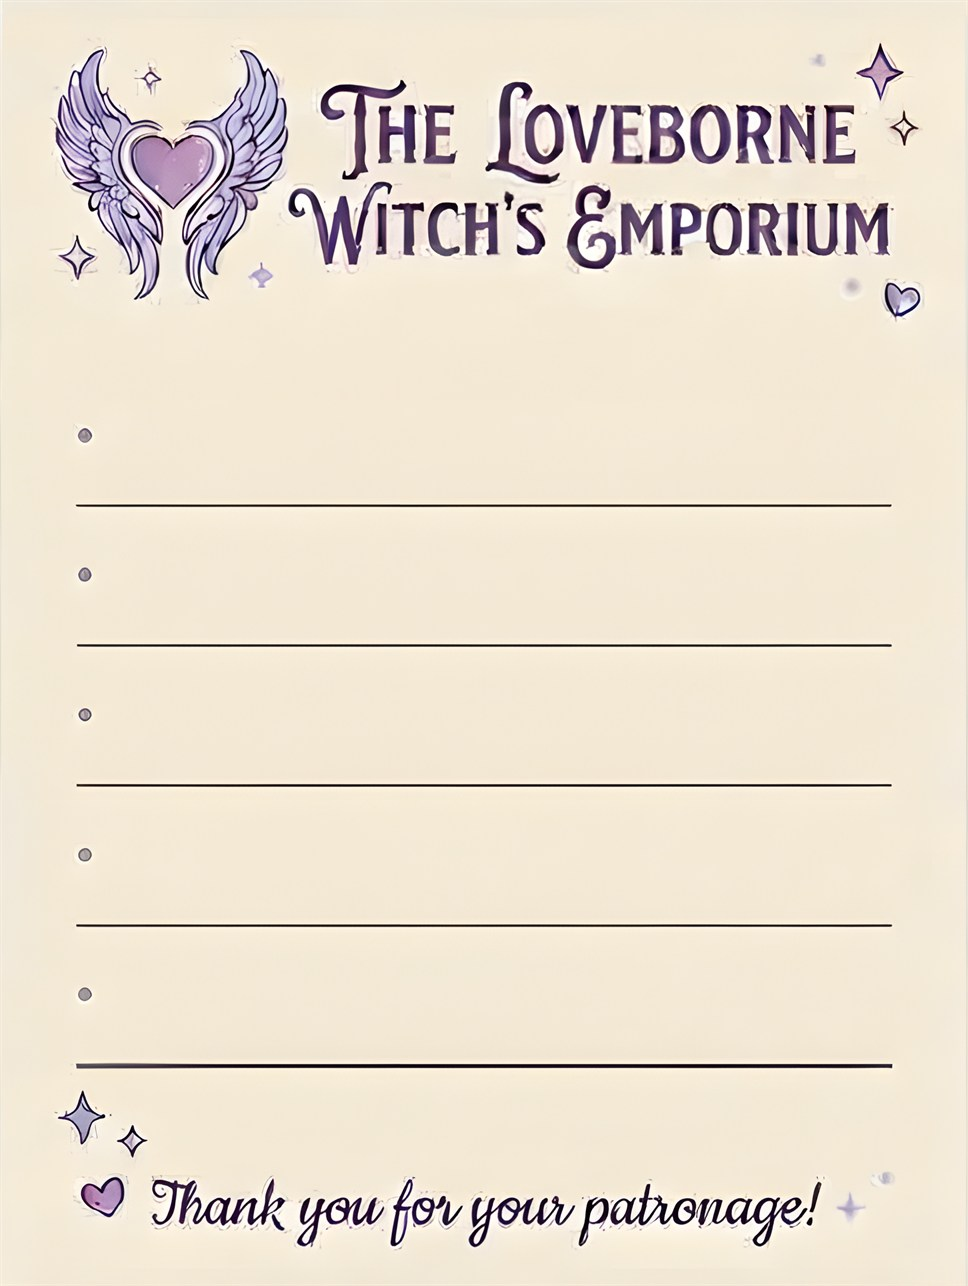
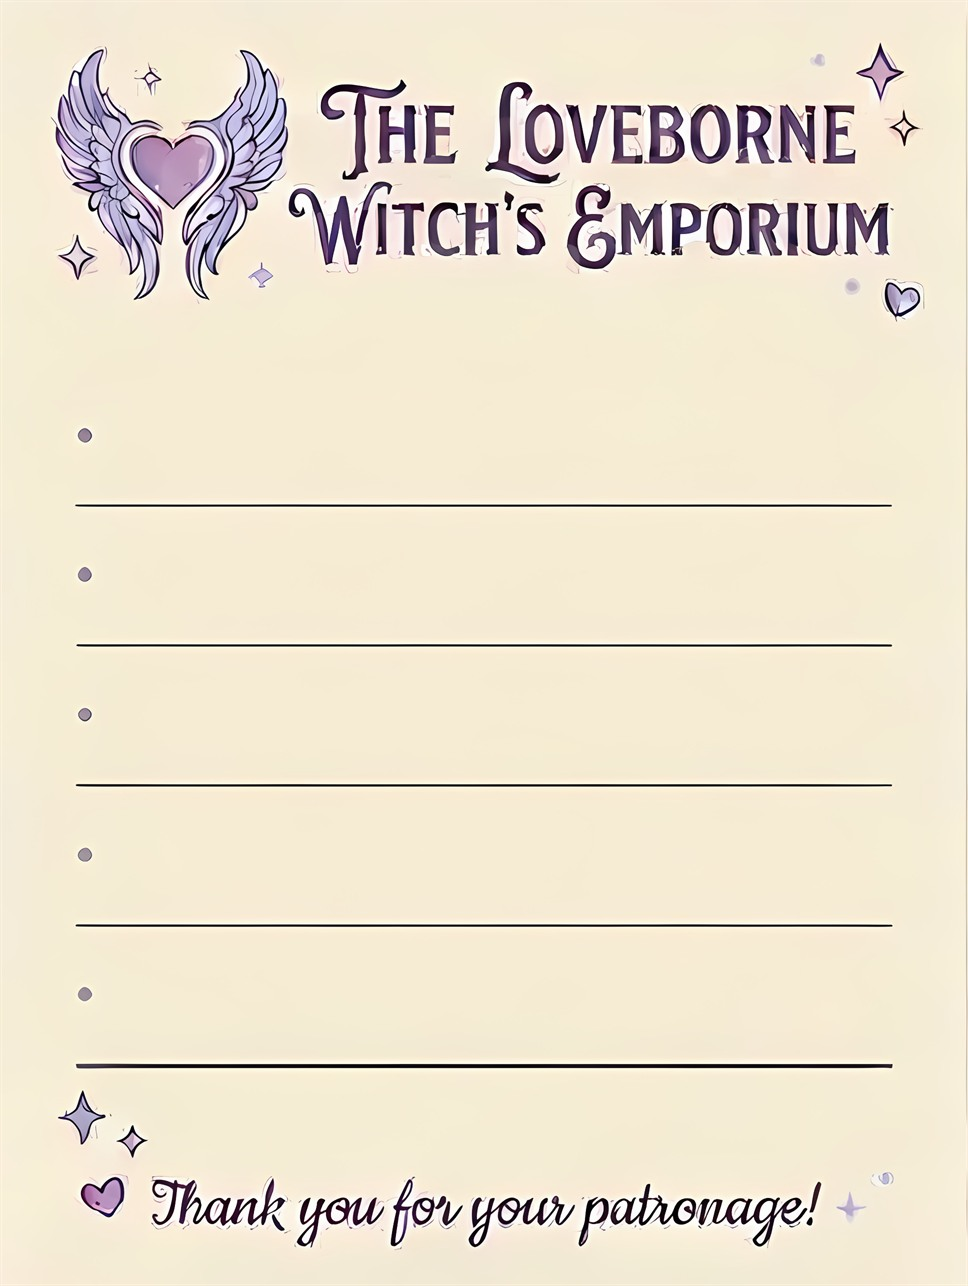
Workroom walls repeat outward instead of folding into a corner; bigger cupboard popup; crisper, larger receipt

diff --git a/css/style.css b/css/style.css
@@ -240,12 +240,12 @@ summary{cursor:pointer;font-weight:600;padding:3px 0}
 .modal.receiptsview{background:none;align-items:center;cursor:pointer}
 .receiptsview .receipts{justify-content:center;gap:18px;margin:0}
 /* a receipt: the shop's slip, printed on its five ruled lines (the first at 39.2% down, one every 10.9%), beside the bullets */
-.receipt{position:relative;width:280px;aspect-ratio:484/643;background:#FBF4E2 center/100% 100% no-repeat;border-radius:2px;
+.receipt{position:relative;width:330px;aspect-ratio:484/643;background:#FBF4E2 center/100% 100% no-repeat;border-radius:2px;
   box-shadow:0 4px 12px rgba(40,10,40,.35);font-family:'Courier Prime','Courier New',monospace;color:#3D2A5C}  /* printed by the till */
-.receipt .ln{position:absolute;left:12%;right:8%;bottom:calc(100% - 38.2% - var(--r) * 10.89%);font-size:13.5px;line-height:1;white-space:nowrap;overflow:hidden;text-overflow:ellipsis}
-.receipt .who{font-size:12.5px}
-.receipt .rs{color:#C2456B;font-family:var(--font-text);font-size:16px;letter-spacing:2px}
-.receipt .when{text-align:right;font-size:12.5px}
+.receipt .ln{position:absolute;left:12%;right:8%;bottom:calc(100% - 38.2% - var(--r) * 10.89%);font-size:15.5px;line-height:1;white-space:nowrap;overflow:hidden;text-overflow:ellipsis}
+.receipt .who{font-size:14px}
+.receipt .rs{color:#C2456B;font-family:var(--font-text);font-size:19px;letter-spacing:2px}
+.receipt .when{text-align:right;font-size:14px}
 .autobar{position:fixed;left:50%;bottom:calc(env(safe-area-inset-bottom,0px) + 60px);transform:translateX(-50%);background:var(--card);border:1px solid var(--line);border-radius:12px;padding:6px 10px;z-index:25;box-shadow:var(--glow);white-space:nowrap}
 .autobar[hidden]{display:none}
 .cue{font-style:italic;color:var(--ink-soft);margin:8px 0 0;font-size:14px}
@@ -343,8 +343,8 @@ button.small{font-size:12px;padding:2px 10px}
 .cabinside .chip:disabled{opacity:.35}
 /* Ingredients with a picture stand on the shelf with a little name tag; the stock count sits on the tag. */
 /* ingredients stand at their own sizes (--h, a share of a big bottle; see ITEM_SIZE in config.js), feet on one line */
-.cabinside .chip.jar{display:inline-flex;flex-direction:column;align-items:center;justify-content:flex-end;gap:3px;width:auto;min-width:96px;padding:6px 3px 4px;background:none;border:1px solid transparent;border-radius:10px;box-shadow:none;color:#FBEFD9;font-size:12px;line-height:1.15;text-align:center}
-.cabinside .chip.jar img{width:auto;height:calc(var(--h,.7) * 160px);max-width:150px;object-fit:contain;filter:drop-shadow(0 3px 2px rgba(0,0,0,.55));transition:transform .15s}
+.cabinside .chip.jar{display:inline-flex;flex-direction:column;align-items:center;justify-content:flex-end;gap:3px;width:auto;min-width:124px;padding:6px 3px 4px;background:none;border:1px solid transparent;border-radius:10px;box-shadow:none;color:#FBEFD9;font-size:14.5px;line-height:1.15;text-align:center}
+.cabinside .chip.jar img{width:auto;height:calc(var(--h,.7) * 205px);max-width:190px;object-fit:contain;filter:drop-shadow(0 3px 2px rgba(0,0,0,.55));transition:transform .15s}
 .cabinside .chip.jar:hover{background:rgba(255,240,220,.08);box-shadow:none}
 .cabinside .chip.jar:hover img{transform:translateY(-3px) scale(1.06)}
 .cabinside .chip.jar .nm{background:#F6E7C9;color:#4A2A1C;border-radius:3px;padding:1px 5px;max-width:100%}
@@ -354,9 +354,9 @@ button.small{font-size:12px;padding:2px 10px}
    A shelf row is 242px: 14px of space, 180px for the bottles, the plank, then the tag. Tiles are a fixed height so the planks line up. */
 .cabinside .chips.shelf{gap:12px 0;align-items:flex-start;justify-content:flex-start;padding:14px 8px 4px;
   background:repeating-linear-gradient(to bottom,transparent 0 191px,#8C5E46 191px 200px,rgba(0,0,0,.5) 200px 205px,transparent 205px 242px),#3B261C}
-.cabinside .chip.jar.vessel{width:118px;height:230px;justify-content:flex-start;padding:0 2px 4px;border-radius:0}
-.cabinside .chip.jar.vessel .pic{display:flex;align-items:flex-end;justify-content:center;width:100%;height:180px;flex:none;margin-bottom:22px}
-.cabinside .chip.jar.vessel img{width:auto;height:calc(var(--h,.9) * 175px);max-width:116px;object-fit:contain;filter:drop-shadow(-6px 4px 4px rgba(0,0,0,.45))}
+.cabinside .chip.jar.vessel{width:150px;height:290px;justify-content:flex-start;padding:0 2px 4px;border-radius:0}
+.cabinside .chip.jar.vessel .pic{display:flex;align-items:flex-end;justify-content:center;width:100%;height:228px;flex:none;margin-bottom:26px}
+.cabinside .chip.jar.vessel img{width:auto;height:calc(var(--h,.9) * 222px);max-width:148px;object-fit:contain;filter:drop-shadow(-6px 4px 4px rgba(0,0,0,.45))}
 .cabinside .chip.jar.vessel:hover img{transform:translateY(-4px)}
 .cabinside .chip.jar.vessel.on{border-radius:8px 8px 0 0}
 
@@ -454,8 +454,8 @@ button.small{font-size:12px;padding:2px 10px}
 .pbody .entry .entrypic.card{max-height:22em;border-radius:.6em;filter:drop-shadow(0 6px 10px rgba(60,30,40,.3))}
 /* Tarot cards in the Cabinet: little cards with their name under them; the altar's card slot shows a thumbnail. */
 /* tarot cards are read by their pictures, so they come out big (sized with the room: about 140px wide on a 1920 screen) */
-.cabinside .chip.card{display:inline-flex;flex-direction:column;align-items:center;gap:3px;width:auto;padding:5px;background:none;border:1px solid transparent;border-radius:8px;box-shadow:none;color:#FBEFD9;font-size:11px;line-height:1.15;text-align:center}
-.cabinside .chip.card img{width:max(100px,7.3cqw);height:auto;border-radius:6px;box-shadow:0 3px 6px rgba(0,0,0,.5);transition:transform .15s}
+.cabinside .chip.card{display:inline-flex;flex-direction:column;align-items:center;gap:3px;width:auto;padding:5px;background:none;border:1px solid transparent;border-radius:8px;box-shadow:none;color:#FBEFD9;font-size:13px;line-height:1.15;text-align:center}
+.cabinside .chip.card img{width:max(130px,9.4cqw);height:auto;border-radius:6px;box-shadow:0 3px 6px rgba(0,0,0,.5);transition:transform .15s}
 .cabinside .chip.card:hover{background:rgba(255,240,220,.08);box-shadow:none}
 .cabinside .chip.card:hover img{transform:translateY(-4px) scale(1.08)}
 .cabinside .chip.card .nm{background:#F6E7C9;color:#4A2A1C;border-radius:3px;padding:1px 4px;max-width:100%}
@@ -508,12 +508,11 @@ button.small{font-size:12px;padding:2px 10px}
 .room{position:absolute;left:50%;bottom:0;translate:-50% 0;
   height:max(100vh,min(calc(100vw * 768 / 1376),106vh));width:max(calc(100vh * 1376 / 768),min(100vw,calc(106vh * 1376 / 768)));
   background-size:100% 100%;background-color:#2a1d2a;container-type:size}
-/* On a window wider than the picture, the walls carry on past its edges: each side shows the edge of the same room drawn empty
-   (assets/scene/altar-room-sides.jpg: walls and floor, no cupboards or table), mirrored at the seam and fading into the dark. */
-.room::before,.room::after{content:'';position:absolute;top:0;bottom:0;width:45%;scale:-1 1;pointer-events:none;
-  background-size:100% 100%,222.2% 100%;background-repeat:no-repeat}
-.room::before{right:100%;background-image:linear-gradient(to right,rgba(30,18,25,0) 0%,rgba(30,18,25,.35) 50%,rgba(30,18,25,.85) 100%),var(--room-sides);background-position:left top,left top}
-.room::after{left:100%;background-image:linear-gradient(to left,rgba(30,18,25,0) 0%,rgba(30,18,25,.35) 50%,rgba(30,18,25,.85) 100%),var(--room-sides);background-position:right top,right top}
+/* On a window wider than the picture, the walls carry on past its edges: one wall section (a panel and a pillar) from each edge
+   of the same room drawn empty repeats outward, the right way round, fading into the dark. 7.27% = the section's 200px of 2752. */
+.room::before,.room::after{content:'';position:absolute;top:0;bottom:0;width:45%;pointer-events:none;background-repeat:no-repeat,repeat-x;background-size:100% 100%,16.15% 100%}
+.room::before{right:100%;background-image:linear-gradient(to left,rgba(30,18,25,0) 0%,rgba(30,18,25,.35) 50%,rgba(30,18,25,.85) 100%),var(--wall-l);background-position:0 0,right top}
+.room::after{left:100%;background-image:linear-gradient(to right,rgba(30,18,25,0) 0%,rgba(30,18,25,.35) 50%,rgba(30,18,25,.85) 100%),var(--wall-r);background-position:0 0,left top}
 @media (max-aspect-ratio:3/2){.room{bottom:auto;top:50%;translate:-50% -50%;width:100vw;height:calc(100vw * 768 / 1376)}}  /* narrow windows: the whole room, letterboxed */
 .altarview{background:#1E1219}
 .altartop{position:absolute;top:0;left:0;right:0;z-index:3;display:flex;justify-content:center;padding:76px 16px 0;pointer-events:none}
@@ -570,12 +569,13 @@ button.small{font-size:12px;padding:2px 10px}
   border:1px solid rgba(255,255,255,.35);box-shadow:inset 0 .45cqw 0 -.15cqw #9C6B4E}
 
 /* the open cupboard: everything inside it, between the cabinets; it comes out of the door that opened */
-.shelfopen{position:absolute;top:13%;max-height:56%;left:35%;width:30%;z-index:4;display:flex;flex-direction:column;box-sizing:border-box;padding:10px;
+.shelfopen{position:absolute;top:max(13%,calc(100% - 100vh + 118px));max-height:63%;  /* below the order note, even when the ceiling is cropped */
+  left:29%;width:42%;z-index:4;display:flex;flex-direction:column;box-sizing:border-box;padding:10px;
   background:#2B1A13;border:2px solid #6B4A35;border-radius:12px;box-shadow:0 18px 40px rgba(0,0,0,.6),0 0 0 1px rgba(244,173,207,.3);
   animation:cupboardOut .32s .12s cubic-bezier(.2,.8,.3,1.1) backwards}
 .shelfopen[hidden]{display:none}
 /* the tarot cupboard opens wider, so its big cards fit five or six to a row */
-.shelfopen.wide{left:20%;width:60%;max-height:62%}
+.shelfopen.wide{left:14%;width:72%;max-height:66%}
 .shelfopen.fromL{transform-origin:0 30%;--from:-14%}
 .shelfopen.fromR{transform-origin:100% 30%;--from:14%}
 @keyframes cupboardOut{from{opacity:0;transform:translateX(var(--from)) scale(.8)}}
@@ -584,7 +584,7 @@ button.small{font-size:12px;padding:2px 10px}
 .shelfhead h3{margin:0;color:#F6E7C9;font-family:var(--font-title);font-weight:700;font-size:22px}
 .shelfopen .cabinside{flex:1;min-height:0;overflow:auto;padding:0}
 .shelfopen .chips{border-radius:6px}
-.shelfopen .swatch{width:34px;height:34px}
+.shelfopen .swatch{width:46px;height:46px}
 .fillnow{flex:0 0 100%;display:flex;flex-wrap:wrap;gap:6px;padding-bottom:6px}
 
 /* the table is the altar: things stand on its top (the picture's tabletop runs from 76% to 89% down); the candle at the

diff --git a/js/scene.js b/js/scene.js
@@ -29,7 +29,8 @@ function setBackground(key){if(key===bgNow)return;bgNow=key;
   const room=$('#room');room.style.backgroundImage=`url("${ASSETS.altarRoom}")`;
   /* full address: a url() in a variable is read from the stylesheet's folder */
   room.style.setProperty('--room-img',`url("${new URL(ASSETS.altarRoom,location.href).href}")`);
-  room.style.setProperty('--room-sides',`url("${new URL(ASSETS.altarRoomSides,location.href).href}")`);
+  room.style.setProperty('--wall-l',`url("${new URL(ASSETS.altarWallL,location.href).href}")`);
+  room.style.setProperty('--wall-r',`url("${new URL(ASSETS.altarWallR,location.href).href}")`);
   room.style.setProperty('--inside-img',`url("${new URL(ASSETS.cabinetInside,location.href).href}")`);
   $('#'+next).classList.add('on');$('#'+bgTop).classList.remove('on');bgTop=next}
 /* The light on the objects: red, green and blue for each hour (other hours are Noon's 1, 1, 1). It moves from the

diff --git a/js/config.js b/js/config.js
@@ -48,7 +48,8 @@ const ASSETS = {
   },
   /* The workroom below the counter: shelves either side (Kitchen left, Cabinet right) and the altar table in front. */
   altarRoom: 'assets/scene/altar-room.jpg',
-  altarRoomSides: 'assets/scene/altar-room-sides.jpg',  /* the same room, empty: its edges carry the walls on past the picture on wide windows */
+  /* one wall section (a panel and a pillar) from each edge of the same room drawn empty: on a wide window it repeats outward, so the walls carry on */
+  altarWallL: 'assets/scene/altar-wall-left.jpg', altarWallR: 'assets/scene/altar-wall-right.jpg',
   cabinetInside: 'assets/scene/cabinet-inside.jpg',  /* seen behind a cupboard door when it opens */
   logo: 'assets/scene/logo.png',  /* the shop's winged heart: the tab icon, the top bar, the day card at dawn */
   receipt: 'assets/scene/receipt.jpg',  /* the printed slip; receipts are written on it */

diff --git a/DESIGN_NOTES.md b/DESIGN_NOTES.md
@@ -34,7 +34,8 @@ A cozy witch-shop deduction game. Customers describe a need (never the recipe na
 - Every order has exactly one right recipe; a different recipe fails.
 - Week-one orders always say what kind of thing they want (a charm, something to spread on toast = butter, something to look into = hand mirror, and so on).
 - A customer simply waits while you make it, unless the order truly cannot be made during their visit; only then do they say which day they'll be back. There is no button to start an order.
-- **Making and giving**: at the altar, **Make it** makes the order and slides the view back up to the counter, where it waits as a wrapped parcel (pink ribbon, a handwritten tag with the recipe name) between the till and the notebook. Clicking the parcel hands it over. Making again before giving replaces it; it goes if the customer leaves.
+- **Making and giving**: at the altar, **Make it** makes the order and slides the view back up to the counter, where it waits as a wrapped parcel (pink ribbon, a handwritten tag with the recipe name) between the till and the notebook. Clicking the parcel hands it over.
+- **Cupboards**: an open cupboard shows its things large enough to tell apart (42% of the room wide, 72% for the tarot cards), and always starts below the order note. Making again before giving replaces it; it goes if the customer leaves.
 - "I don't know how to make this" needs a second tap.
 - **Popups**: every popup (books, diary, email, receipts, the crystal ball, the end of the day, the new-email card, an open cupboard, a result at the counter) closes when you click outside it (or with Esc), so none of them has a Close or × button. Only the tutorial note keeps its ×, since it is not a popup. Clicking outside the end-of-day summary goes on to the next day, as its button does.
 - No order brings 5 or more parts the player hasn't met yet (except the Day 6 Beaver Moon stretch goal).
@@ -113,8 +114,8 @@ The design document says a Glamour becomes "a cosmetic, mist or perfume". Each o
 - Book art (assets/books): covers exist for Recipe Book, Book of Making, Grimoire of Craft, Almanac of Sky & Seasons and Tarot Companion. Herbiary, Crystal Almanac and Gentle Bestiary use a plain coloured cover and a drawn open spread until their pictures come (the designer will send them).
 - Only use art whose file is named for what it shows, or that is certain. Unnamed generated images that would have to be matched by guesswork stay out until confirmed.
 - Pictures in: the exhausted bookshop owner stands behind the counter (the other 17 walk-in pictures are unnamed files, left out until confirmed); the 22 tarot cards (assets/tarot) show in the Tarot Companion, the Cabinet and the altar's card slot; ingredient pictures now also show on their book pages. Not yet: Hester (three versions in the art folder), Sam Okafor. The Moon card's label reads "THE FOON" and needs fixing in the art. Two versions exist of The Devil and The World; the 768×1376 ones are used.
-- Workroom on a window wider than its picture: the walls carry on past the edges, using the same room drawn empty (assets/scene/altar-room-sides.jpg, the designer's picture upscaled 2×: walls and floor, no cupboards or table), mirrored at the seam and fading into the dark.
-- Receipt: the designer's five-line slip (assets/scene/receipt.jpg, upscaled 2× to 968×1286): the recipe name, then its type and who it was for, then the stars, and the day and hour on the last line.
+- Workroom on a window wider than its picture: the walls carry on past the edges, using one wall section (a panel and a pillar) cut from each edge of the same room drawn empty (assets/scene/altar-wall-left.jpg and -right.jpg, from the designer's picture upscaled 2×), repeated outward the right way round and fading into the dark. (Mirroring it made the wall fold back into a corner.)
+- Receipt: the designer's five-line slip (assets/scene/receipt.jpg, upscaled 2× to 968×1286 with the anime model, which keeps its lettering crisper; shown 330px wide). The source is soft (484px wide), so a sharper original would help most: the recipe name, then its type and who it was for, then the stars, and the day and hour on the last line.
 - Shop and workroom backgrounds were generated at 1376×768 and upscaled 2× to 2752×1536 with Real-ESRGAN (the general x4plus model, which keeps the wood grain; the anime model smooths it away), then saved as JPEG at quality 88.
 - Keeping it smooth as more art comes in: no blur effects (backdrop-filter) anywhere, since they are redrawn every frame; export pictures near the size they are shown (characters 1100px tall, items ~250px, cards ~420px wide); big pictures are decoded ahead of time.
 - Later: split the prototype into a real web project.
